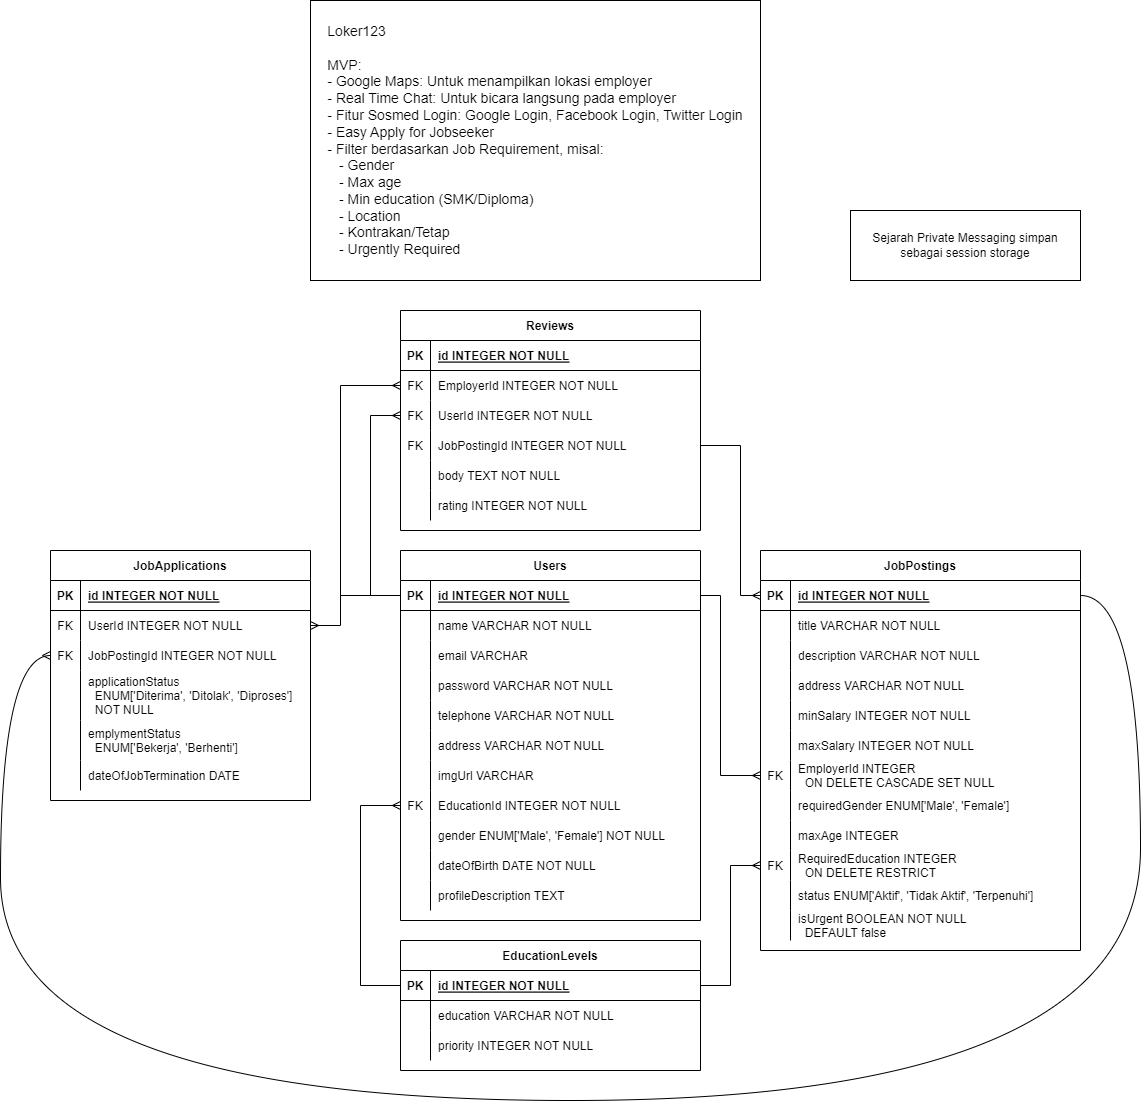
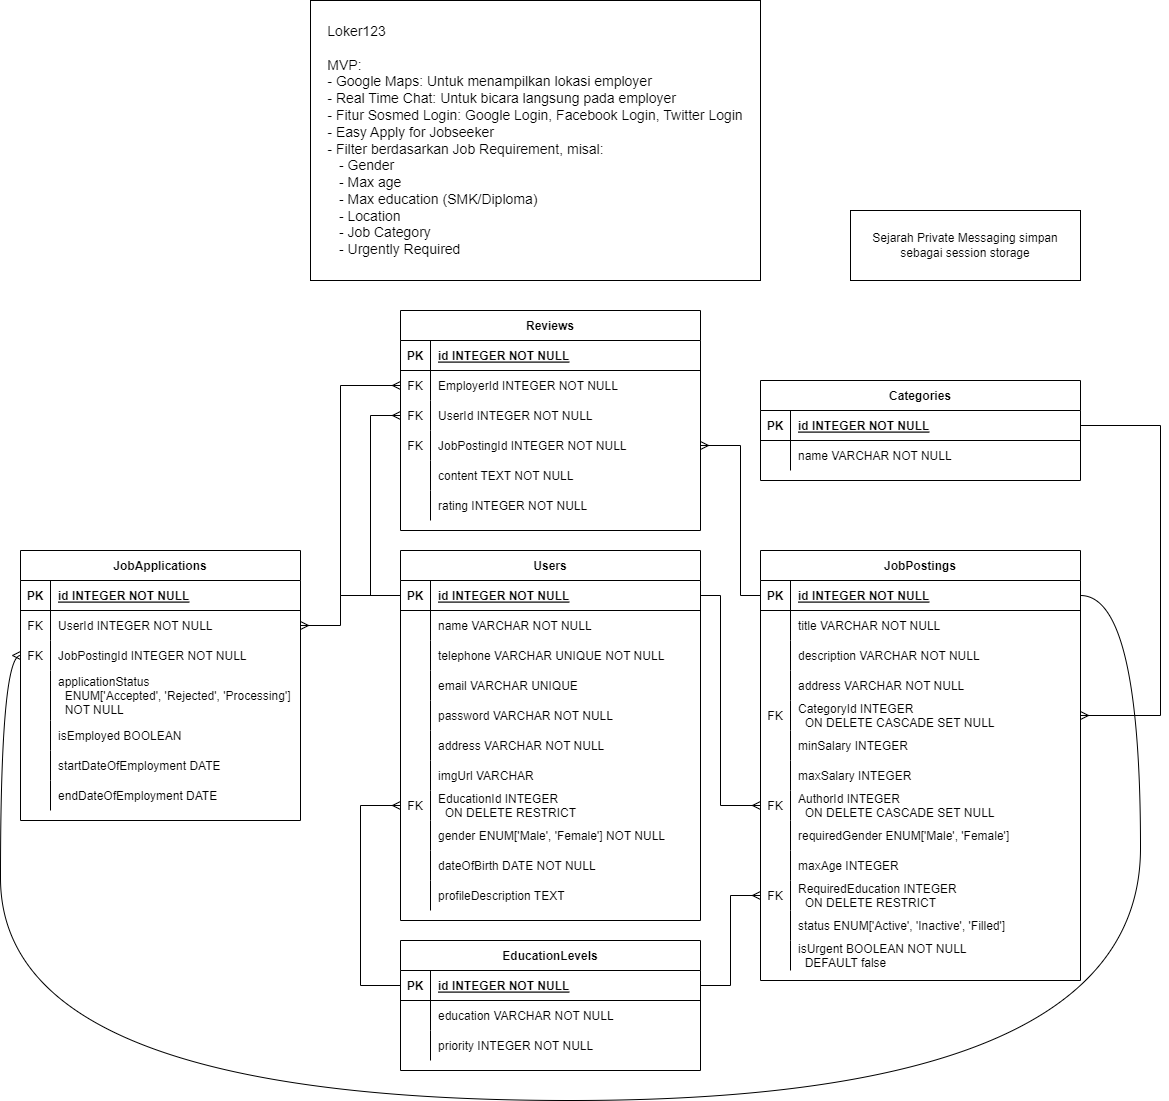
revise schema

diff --git a/graphql/schema.js b/graphql/schema.js
@@ -6,18 +6,14 @@ const typeDefs = `#graphql
     Female
   }
   enum ApplicationStatus {
-    Diterima
-    Ditolak
-    Diproses
-  }
-  enum EmploymentStatus {
-    Bekerja
-    Berhenti
+    Accepted
+    Rejected
+    Processing
   }
   enum JobPostingStatus {
-    Aktif
-    Tidak Aktif
-    Terpenuhi
+    Active
+    Inactive
+    Filled
   }
 
 
@@ -27,11 +23,15 @@ const typeDefs = `#graphql
     education: String
     priority: Int
   }
+  type Category {
+    id: Int
+    name: String
+  }
   type User {
     id: Int 
     name: String
-    email: String
     telephone: String
+    email: String
     address: String
     imgUrl: String
     educationLevel: EducationLevel
@@ -43,15 +43,14 @@ const typeDefs = `#graphql
   type Me {
     id: Int 
     name: String
-    email: String
     telephone: String
+    email: String
     address: String
     imgUrl: String
     educationLevel: EducationLevel
     gender: Gender
     dateOfBirth: Date
     profileDescription: String
-    password: String
     appliedJobs: [JobApplication]
     postedJobs: [JobPosting]
     receivedReviews: [Review]
@@ -60,17 +59,19 @@ const typeDefs = `#graphql
     id: Int
     jobPosting: JobPosting
     applicationStatus: ApplicationStatus
-    employmentStatus: EmploymentStatus
-    dateOfJobTermination: Date
+    isEmployed: Boolean
+    startDateOfEmployment: Date
+    endDateOfEmployment: Date
   }
   type JobPosting {
     id: Int
     title: String
     description: String
     address: String
+    category: Category
     minSalary: Int
     maxSalary: Int
-    employer: User
+    author: User
     requiredGender: Gender
     maxAge: Int
     requiredEducation: EducationLevel
@@ -82,7 +83,7 @@ const typeDefs = `#graphql
     employer: User
     user: User
     jobPosting: JobPosting
-    body: String
+    content: String
     rating: Int
   }
 
@@ -96,36 +97,46 @@ const typeDefs = `#graphql
 
   # Input Types buat Mutation
   input loginCredentials {
-    email: String
     telephone: String
+    email: String
     password: String
   }
   input registerDetails {
     name: String
-    email: String
     telephone: String
+    email: String
     password: String
     address: String
     educationId: Int
     gender: Gender
     dateOfBirth: Date
+    profileDescription: String
+  }
+  input userDetails {
+    name: String
+    address: String
+    imgUrl: String
+    educationId: Int
+    gender: Gender
+    dateOfBirth: Date
+    profileDescription: String
   }
   input newJobPosting {
     title: String
     description: String
     address: String
+    categoryId: Int
     minSalary: Int
     maxSalary: Int
     requiredGender: Gender
     maxAge: Int
     requiredEducation: Int
-    status: JobPostingStatus
     isUrgent: Boolean
   }
   input newReview {
     userId: Int
     jobPostingId: Int
-    body: String
+    content: String
     rating: Int
   }
 
@@ -136,9 +147,10 @@ const typeDefs = `#graphql
     users(pageNumber: Int): [User]
     jobPostingById(id: Int!): JobPosting
     jobPostings(
-      requiredGender: Gender, 
+      gender: Gender, 
       maxAge: Int, 
-      minEducation: EducationLevel, 
+      categoryId: Int,
+      maxEducation: EducationLevel, 
       location: String, 
       isUrgent: Boolean,
       pageNumber: Int
@@ -147,9 +159,13 @@ const typeDefs = `#graphql
   type Mutation {
     register(registerDetails: registerDetails): Response
     login(loginCredentials: loginCredentials): Response
+    editUserDetails(userDetails: userDetails): Response
     addNewJobPosting(newJobPosting: newJobPosting): JobPosting
     editJobPosting(newJobPosting: newJobPosting): JobPosting
     applyToJob(id: Int): JobApplication
+    acceptJobApplication(id: Int): Response
+    rejectJobApplication(id: Int): Response
+    endEmploymentForJobApplication(id: Int): Response
     addReview(newReview: newReview): Review
   }
 `;
